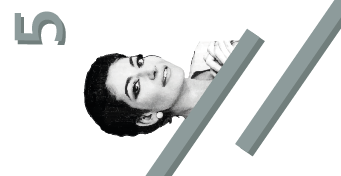
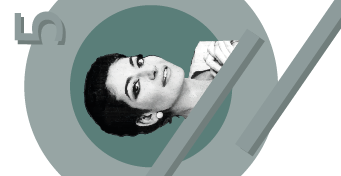
Add complex white pattern overlay and dark grey background

diff --git a/sketch.js b/sketch.js
@@ -64,43 +64,80 @@ function setup() {
 }
 
 function applyNoiseDistortion(pg, img, w, h) {
-  let temp = createGraphics(w, h);
-  temp.image(img, 0, 0, w, h);
-  temp.loadPixels();
+  pg.image(img, 0, 0, w, h);
+  pg.filter(BLUR, 25);
   
-  pg.background(255);
+  // Apply digital glitch effect
   pg.loadPixels();
   
-  const noiseScale = 0.003;
-  const distortionStrength = 600;
-  
   randomSeed(42);
-  noiseSeed(42);
+  const glitchIntensity = 8;
+  const numGlitches = 12;
   
-  for (let y = 0; y < h; y++) {
-    for (let x = 0; x < w; x++) {
-      const noiseX = noise(x * noiseScale, y * noiseScale, 0) * 2 - 1;
-      const noiseY = noise(x * noiseScale, y * noiseScale, 100) * 2 - 1;
-      const turbulenceX = noise(x * noiseScale * 4, y * noiseScale * 4, 50) * 2 - 1;
-      const turbulenceY = noise(x * noiseScale * 4, y * noiseScale * 4, 150) * 2 - 1;
-      
-      const offsetX = (noiseX + turbulenceX * 0.7) * distortionStrength;
-      const offsetY = (noiseY + turbulenceY * 0.7) * distortionStrength;
-      
-      const srcX = constrain(floor(x + offsetX), 0, w - 1);
-      const srcY = constrain(floor(y + offsetY), 0, h - 1);
-      
-      const srcIdx = (srcY * w + srcX) * 4;
-      const destIdx = (y * w + x) * 4;
-      
-      pg.pixels[destIdx] = temp.pixels[srcIdx];
-      pg.pixels[destIdx + 1] = temp.pixels[srcIdx + 1];
-      pg.pixels[destIdx + 2] = temp.pixels[srcIdx + 2];
-      pg.pixels[destIdx + 3] = temp.pixels[srcIdx + 3];
+  for (let i = 0; i < numGlitches; i++) {
+    const glitchY = floor(random(h));
+    const glitchHeight = floor(random(5, 30));
+    const glitchOffset = floor(random(-80, 80));
+    
+    for (let y = glitchY; y < min(glitchY + glitchHeight, h); y++) {
+      for (let x = 0; x < w; x++) {
+        let srcX = x - glitchOffset;
+        
+        if (srcX >= 0 && srcX < w) {
+          const srcIdx = (y * w + srcX) * 4;
+          const destIdx = (y * w + x) * 4;
+          
+          pg.pixels[destIdx] = pg.pixels[srcIdx];
+          pg.pixels[destIdx + 1] = pg.pixels[srcIdx + 1];
+          pg.pixels[destIdx + 2] = pg.pixels[srcIdx + 2];
+          pg.pixels[destIdx + 3] = pg.pixels[srcIdx + 3];
+        }
+      }
     }
   }
   
   pg.updatePixels();
-  temp.remove();
+  
+  // Apply pattern filter - create repeating geometric pattern
+  applyPatternFilter(pg, w, h);
+}
+
+function applyPatternFilter(pg, w, h) {
+  pg.loadPixels();
+  
+  const patternSize = 30;
+  const lineThickness = 1.5;
+  const whiteThreshold = 240;
+  
+  for (let y = 0; y < h; y++) {
+    for (let x = 0; x < w; x++) {
+      const idx = (y * w + x) * 4;
+      
+      // Check if pixel is not white
+      const r = pg.pixels[idx];
+      const g = pg.pixels[idx + 1];
+      const b = pg.pixels[idx + 2];
+      const isNotWhite = (r < whiteThreshold || g < whiteThreshold || b < whiteThreshold);
+      
+      // Create more intriguing pattern with multiple layers
+      const isDiagonal = (x + y) % patternSize < lineThickness;
+      const isReverseDiagonal = (x - y + h) % patternSize < lineThickness;
+      const isCircle = (x % patternSize - patternSize/2) * (x % patternSize - patternSize/2) + 
+                       (y % patternSize - patternSize/2) * (y % patternSize - patternSize/2) < 16;
+      const isWave = Math.abs(Math.sin(x * 0.1) * 10 - (y % patternSize)) < lineThickness;
+      const isHexagon = (x % (patternSize * 2) < lineThickness) || 
+                        ((x + y) % (patternSize * 2) < lineThickness * 2);
+      
+      if ((isDiagonal || isReverseDiagonal || isCircle || isWave || isHexagon) && isNotWhite) {
+        // Make pattern lines white with slight variation
+        const brightness = 255 - Math.random() * 20;
+        pg.pixels[idx] = brightness;
+        pg.pixels[idx + 1] = brightness;
+        pg.pixels[idx + 2] = brightness;
+      }
+    }
+  }
+  
+  pg.updatePixels();
 }
 

diff --git a/style.css b/style.css
@@ -1,6 +1,7 @@
 html, body {
   margin: 0;
   padding: 0;
+  background-color: #2a2a2a;
 }
 
 canvas {
